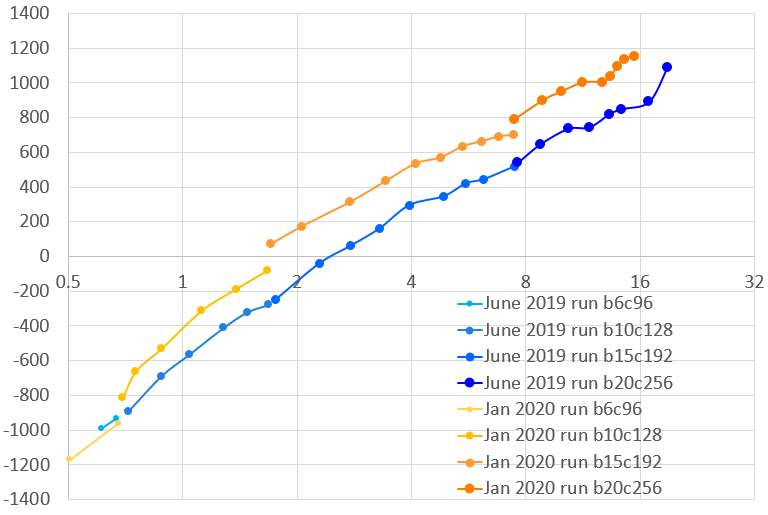
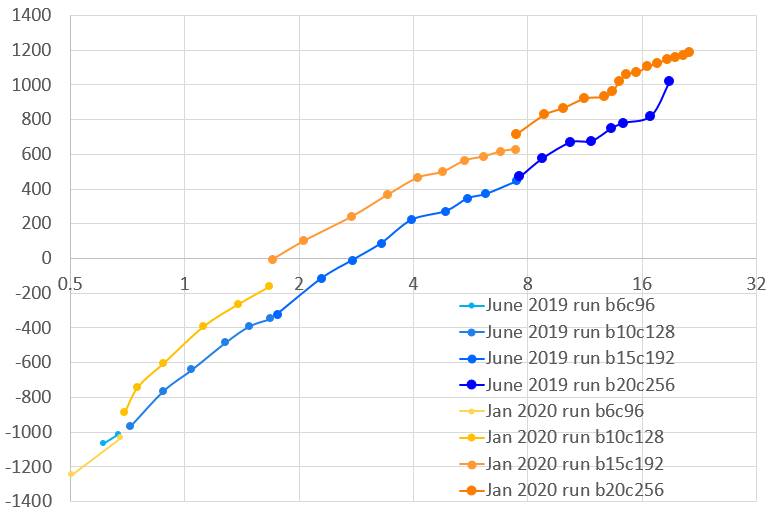
Update README for ongoing run

diff --git a/README.md b/README.md
@@ -24,7 +24,7 @@ Now available for download are a new 20 block x 256 channel network that with eq
 
 See the [releases page](https://github.com/lightvector/KataGo/releases) for the latest release and these neural nets. Download more trained neural nets [here](https://d3dndmfyhecmj0.cloudfront.net/g170/index.html).
 
-Here is a graph of the improvement so far as of about 16 days:
+Here is a graph of the improvement so far as of about 21 days:
 
 <table class="image">
 <tr><td><img src="https://raw.githubusercontent.com/lightvector/KataGo/master/images/readme/jan2020vsjune2019.png" height="350"/></td></tr>
